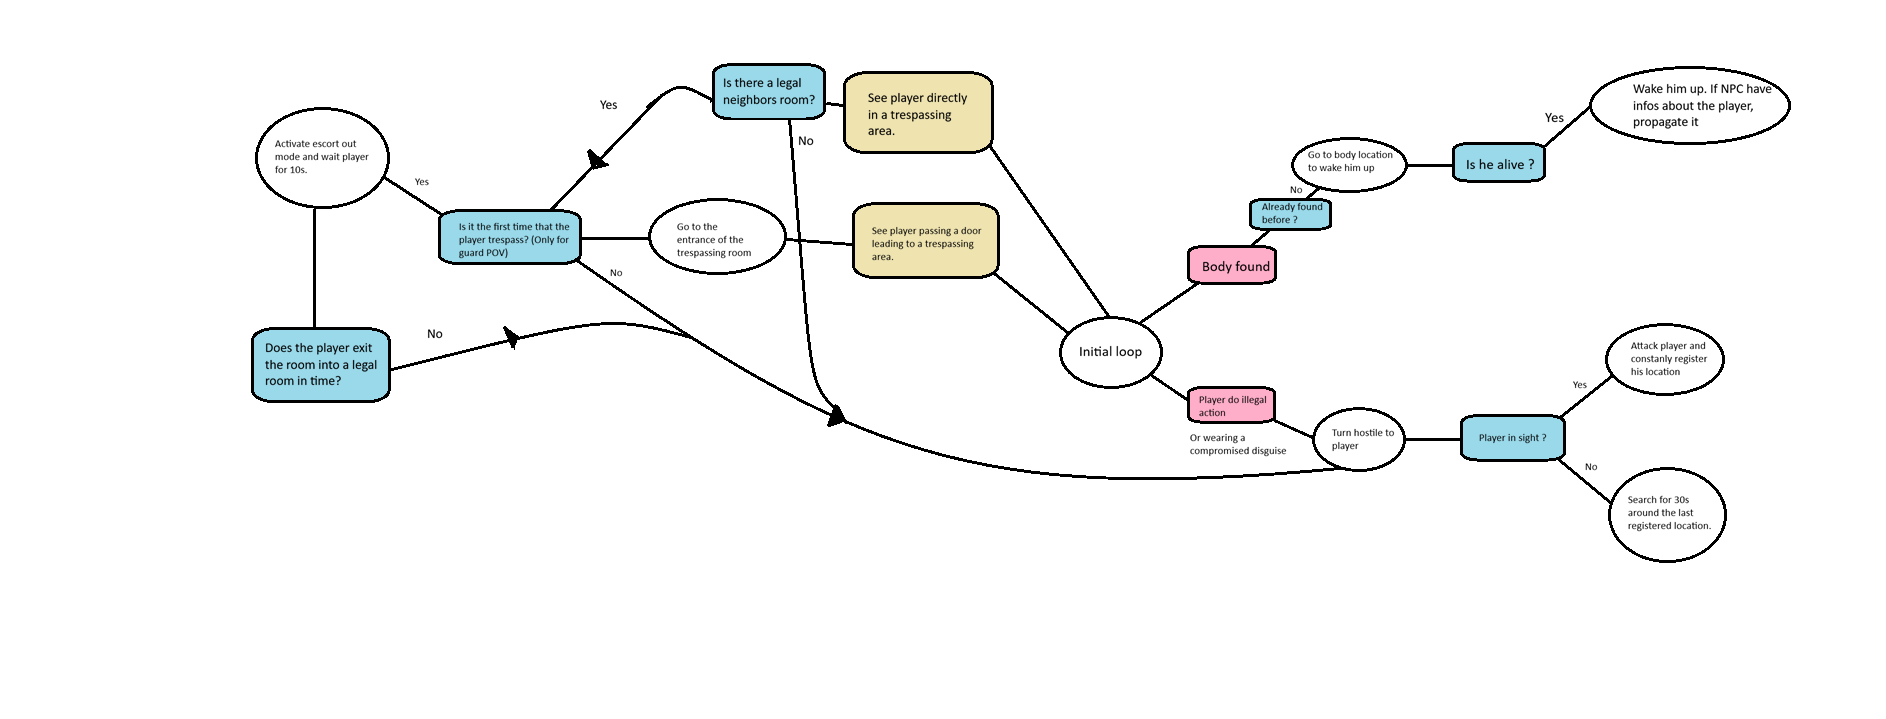
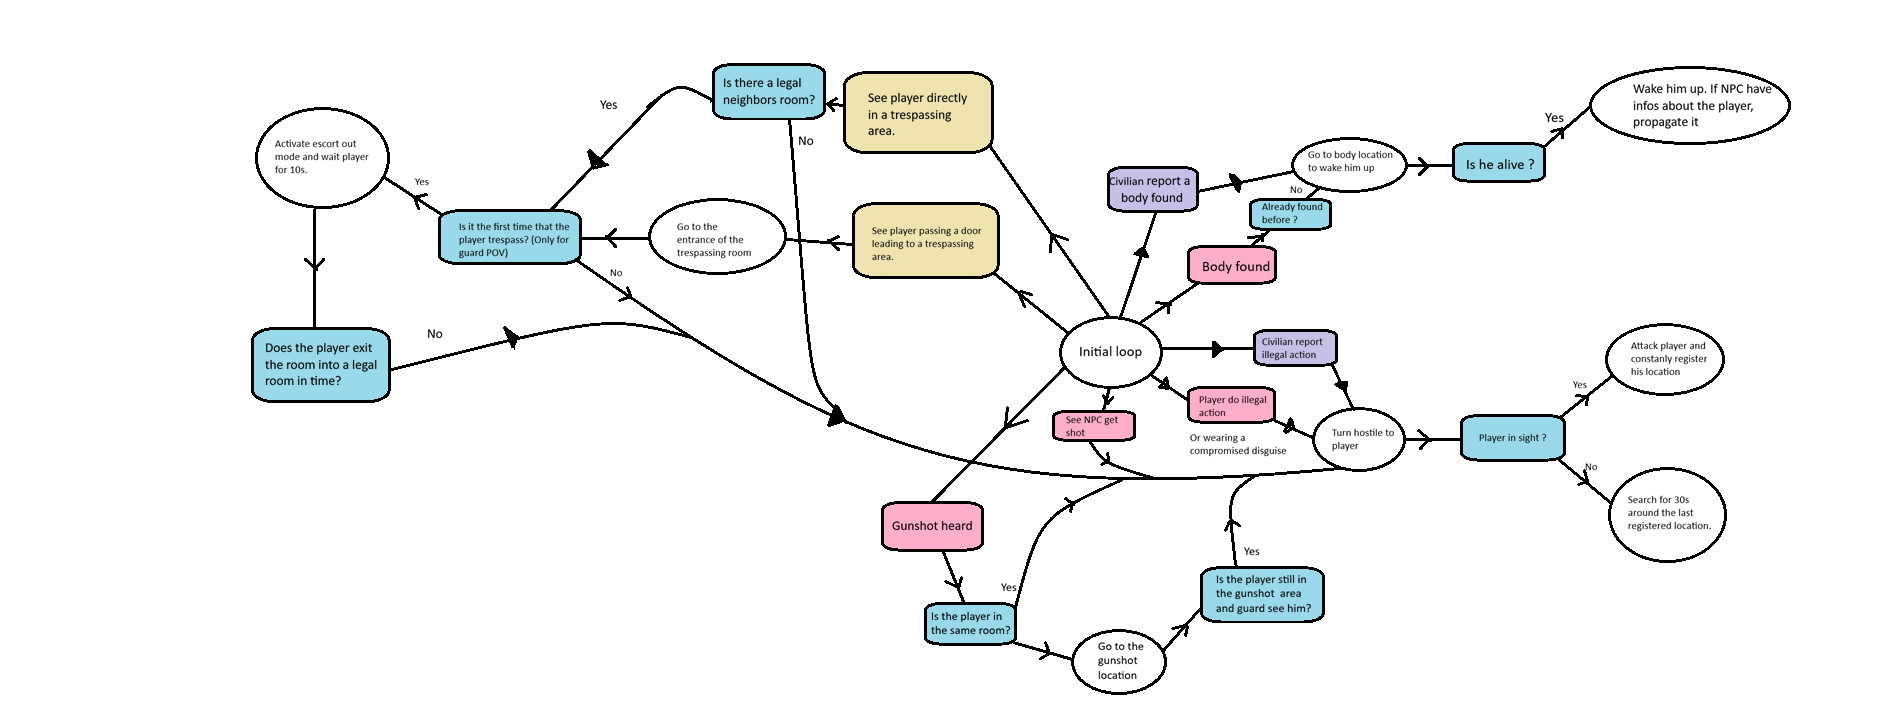
Added a bubble system for NPCs. Now NPC spawn a bubble when eating a food. This functionnality can be used for other situations

diff --git a/hitman_2d/bubble_popup_manager.py b/hitman_2d/bubble_popup_manager.py
@@ -1,0 +1,109 @@
+import pygame
+
+from typing import TYPE_CHECKING
+from dataclasses import dataclass
+
+if TYPE_CHECKING:
+    from .game import Game
+    from .npc import GameCharacter
+
+    
+@dataclass
+class CounterSurface:
+    counter: int
+    surface: pygame.Surface
+    
+    def __post_init__(self) -> None:
+        self.max_count = self.counter
+    
+
+class BubblePopupManager:
+    
+    POPUP_TRANSITION_FRAMES: int = 5
+    
+    def __init__(self, game: Game, character: GameCharacter):
+        self.game = game
+        self.character = character
+        
+        self.popup_queue: list[CounterSurface] = []
+
+    def popup(self, surface: pygame.Surface, duration: int, padding: int = 5) -> None:
+        bubble_surf = pygame.Surface((
+            surface.get_width() + 2 * padding,
+            surface.get_height() + 2 * padding + 5
+        ))
+        
+        corner_width: int = 3
+        
+        bubble_outline: list[tuple[int, int]] = [
+            (corner_width, 0),
+            (bubble_surf.get_width() - corner_width, 0),
+            (bubble_surf.get_width(), corner_width),
+            (bubble_surf.get_width(), surface.get_height() + 2 * padding),
+            (bubble_surf.get_width() - corner_width, surface.get_height() + 2 * padding),
+            (int(bubble_surf.get_width() / 2) + corner_width, surface.get_height() + 2 * padding),
+            (int(bubble_surf.get_width() / 2), surface.get_height() + 2 * padding + 5),
+            (int(bubble_surf.get_width() / 2) - corner_width, surface.get_height() + 2 * padding),
+            (corner_width, surface.get_height() + 2 * padding),
+            (0, surface.get_height() + 2 * padding - corner_width),
+            (0, corner_width)  
+        ]
+        
+        pygame.draw.polygon(
+            bubble_surf,
+            [230, 230, 230],
+            bubble_outline
+        )
+        pygame.draw.polygon(
+            bubble_surf,
+            [1, 1, 1],
+            bubble_outline,
+            width=1
+        )
+        
+        bubble_surf.blit(
+            surface,
+            (
+                int(bubble_surf.get_width() / 2) - int(surface.get_width() / 2),
+                padding,
+            )
+        )
+        
+        count_surf = CounterSurface(counter=duration, surface=bubble_surf)
+        
+        self.popup_queue.append(count_surf)
+        
+    def draw(self) -> None:
+        if not self.popup_queue: return 
+        
+        current_popup = self.popup_queue[0]
+        
+        scale: float = 1.0
+        
+        if 0 < current_popup.counter < self.POPUP_TRANSITION_FRAMES:
+            scale = current_popup.counter / self.POPUP_TRANSITION_FRAMES
+        elif current_popup.max_count - self.POPUP_TRANSITION_FRAMES <= current_popup.counter <= current_popup.max_count:
+            scale = (current_popup.max_count - current_popup.counter) / self.POPUP_TRANSITION_FRAMES
+        
+        surf = pygame.transform.rotozoom(current_popup.surface, 0, scale=scale)
+        
+        surf.set_colorkey("black")
+        
+        self.game.window.blit(
+            surf,
+            self.game.camera.convert_pos((
+                self.character.rect.centerx - int(surf.get_width() / 2),
+                self.character.rect.top - surf.get_height() - 10
+            ))
+        )
+        
+    def update(self) -> None:
+        if not self.popup_queue: return
+        
+        first_popup = self.popup_queue[0]
+        
+        first_popup.counter -= 1
+        
+        if first_popup.counter <= 0:
+            self.popup_queue.pop(0)
+        

diff --git a/hitman_2d/npc.py b/hitman_2d/npc.py
@@ -8,6 +8,7 @@ from pathfinding.finder.a_star import AStarFinder, DiagonalMovement
 from pathfinding.core.grid import Grid, GridNode
 
 from .transition_value import TransitionValue, TransitionRotation
+from .bubble_popup_manager import BubblePopupManager
 from .utilities import find_all_paths
 from .geometry import segments_intersect
 from .settings import TILE_SIZE
@@ -110,6 +111,8 @@ class GameCharacter:
         self.busy_frame: int = 0
         self.max_busy_frame: int = 0
         
+        self.bubble_popup_manager: BubblePopupManager = BubblePopupManager(self.game, self)
+        
         self.focus_points: list[FocusPosition] = []
         self.current_pathfinding: list[pygame.Rect] = []
         self.room_to_traverse: list[str] = []
@@ -182,6 +185,8 @@ class GameCharacter:
             
             self.game.window.blit(shoulder_surf, self.game.camera.convert_pos(shoulder_rect.topleft))
             self.game.window.blit(top_head_surf, self.game.camera.convert_pos(top_head_rect.topleft))
+            
+            self.bubble_popup_manager.draw()
             
             # collision_rect = self.rect.copy()
             # collision_rect.topleft = self.game.camera.convert_pos(top_head_rect.topleft)
@@ -392,6 +397,10 @@ class GameCharacter:
                     rotation = 180 if (food.trigger_rect.y < food.rect.y) else -180   
                     
                 self.focus_position(food.trigger_rect.center, rotation, 30)
+                self.bubble_popup_manager.popup(
+                    surface=food.surf,
+                    duration=60 * 2
+                )
                 self.eat(food)
                 
                 self.current_pathfinding.clear()
@@ -643,6 +652,7 @@ class GameCharacter:
 class NPC(GameCharacter):
     
     def update(self):
+        self.bubble_popup_manager.update()
         self.manage_npc_behaviour()
         self.manage_pathfinding()
         self.manage_body_dragged()
@@ -898,6 +908,7 @@ class Player(GameCharacter):
         self.game.scheduler.add(task=incousious_npc, schedule=pacification_time)
         
     def update(self, all_events: list[pygame.Event]):
+        self.bubble_popup_manager.update()
         self.manage_available_actions()
         self.manage_body_dragged()
         self.manage_controls(all_events=all_events)
